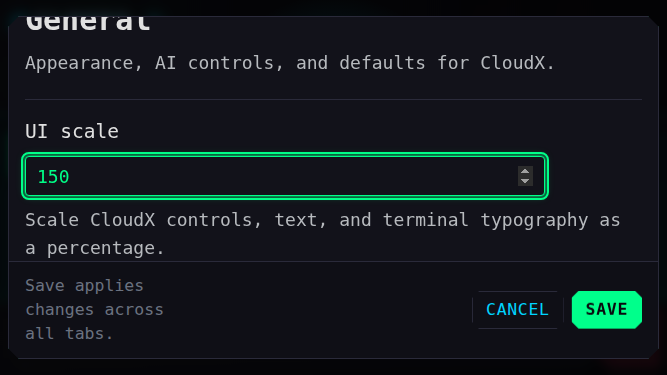
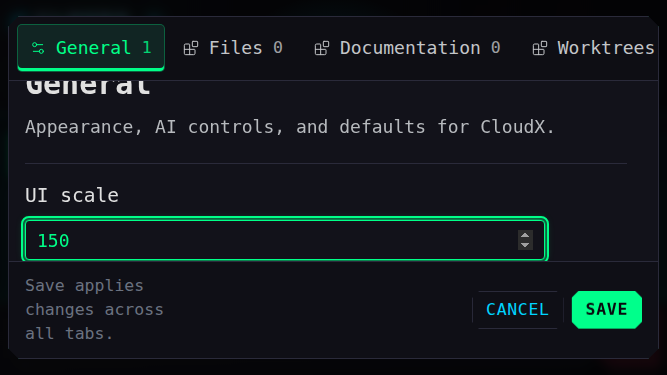
SETTINGS: preserve usable content space in scaled narrow windows

diff --git a/apps/web/src/styles.css b/apps/web/src/styles.css
@@ -6280,8 +6280,10 @@ a:hover svg {
 
 .settings-body {
   display: grid;
-  grid-template-rows: auto auto minmax(0, 1fr);
+  grid-template-rows: auto auto minmax(min(100%, 20rem), 1fr);
   min-height: 0;
+  overflow: auto;
+  overscroll-behavior: contain;
 }
 
 .settings-header,
@@ -6612,23 +6614,6 @@ a:hover svg {
 
   .settings-footer .dialog-actions {
     flex-shrink: 0;
-  }
-}
-
-@media (max-height: 520px) {
-  .settings-body {
-    display: block;
-    overflow: auto;
-    overscroll-behavior: contain;
-  }
-
-  .settings-workspace {
-    grid-template-rows: auto;
-    align-items: start;
-  }
-
-  .settings-content {
-    overflow: visible;
   }
 }
 

diff --git a/tests/browser/settings.spec.ts b/tests/browser/settings.spec.ts
@@ -257,6 +257,8 @@ test("drafts survive tab switches and search, Save persists them, and Cancel dis
 for (const viewport of [
   { width: 667, height: 375 },
   { width: 1024, height: 375 },
+  { width: 320, height: 521 },
+  { width: 320, height: 640 },
 ]) {
   test(`searched settings remain editable at ${viewport.width} × ${viewport.height} and 150% UI scale`, async ({
     page,
